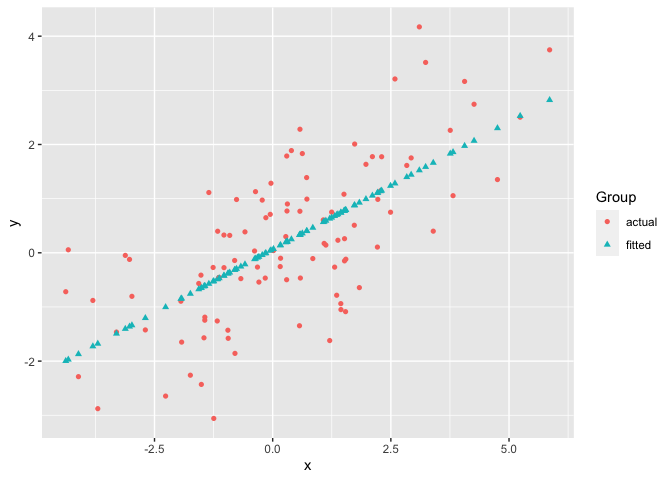
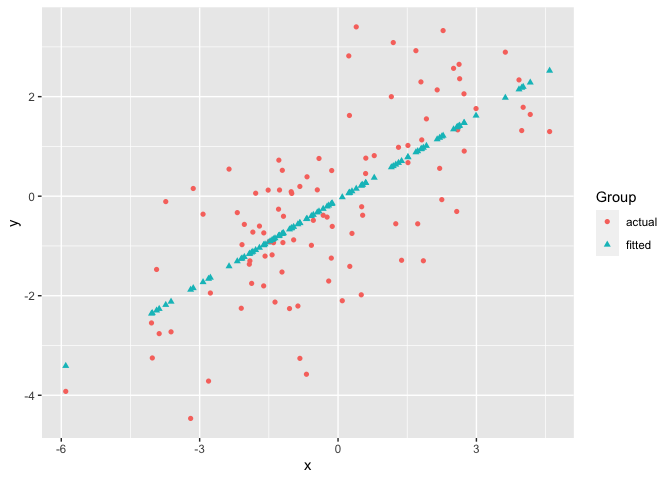
Update data class in the pivotlonger

diff --git a/cran-comments.md b/cran-comments.md
@@ -1,6 +1,9 @@
 ## R CMD check results
 
-0 errors | 0 warnings | 0 notes
+0 errors | 0 warnings | 2 notes
+
+* NOTE: "unable to verify current time" is system-related.
+* NOTE: HTML validation warnings are produced by R's Rd to HTML conversion and are not due to the package.
 
 ## Submssion
 This is a submission for a new version. In this version I have: